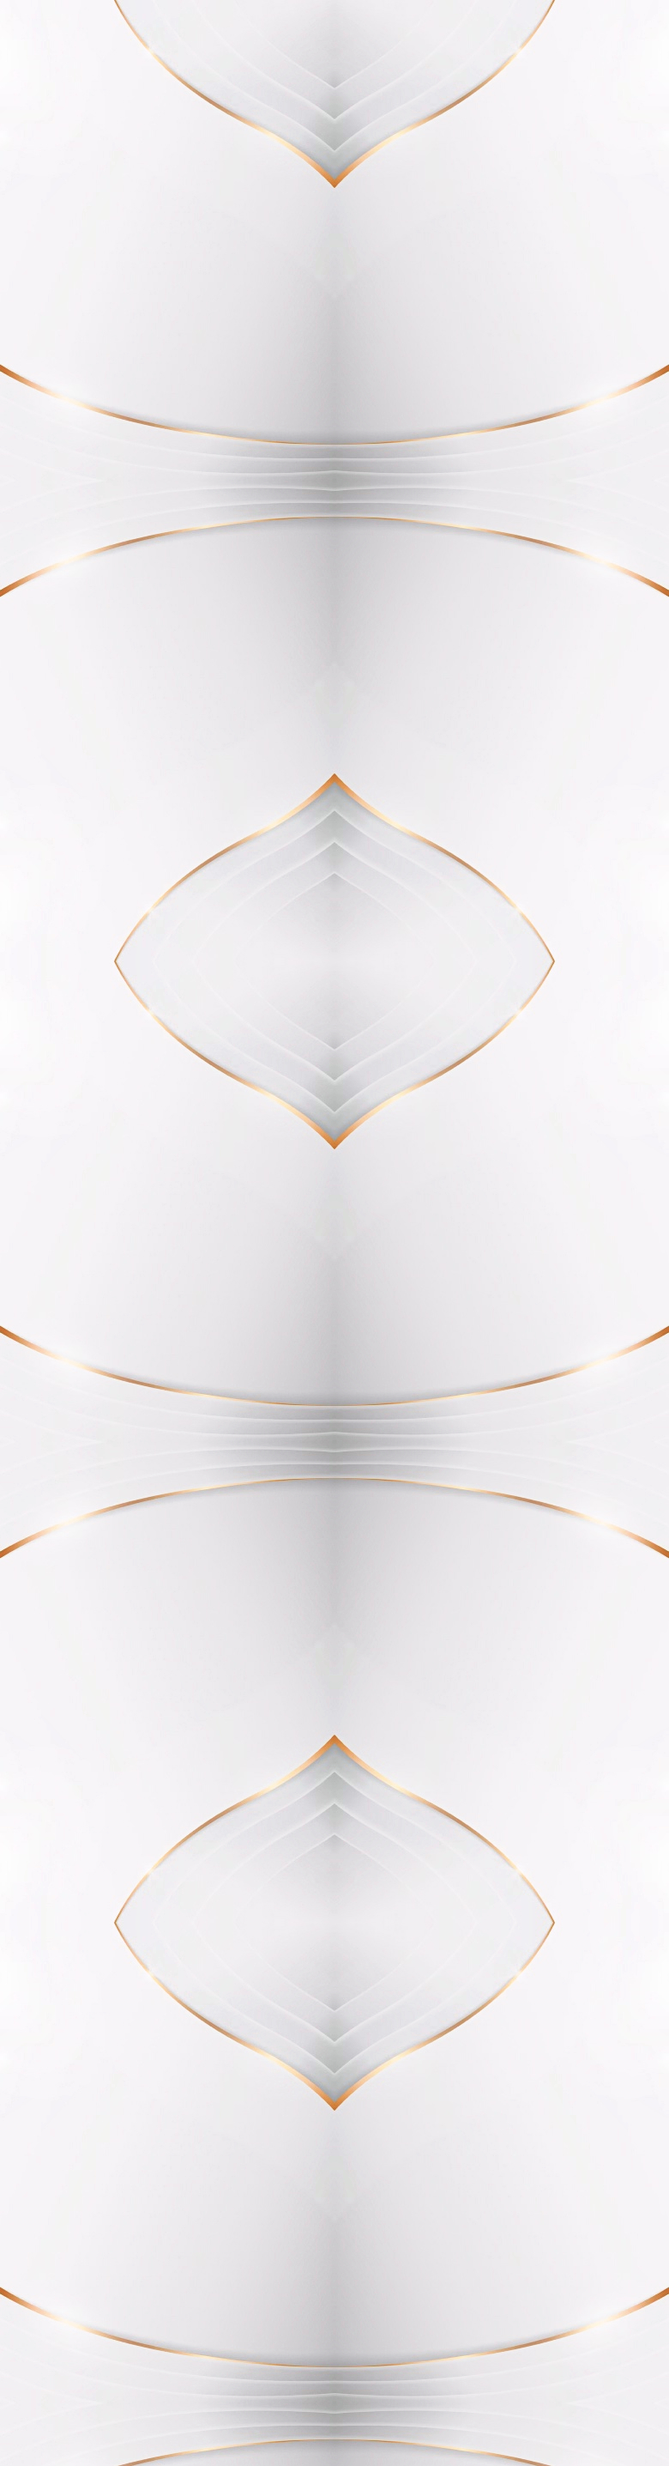
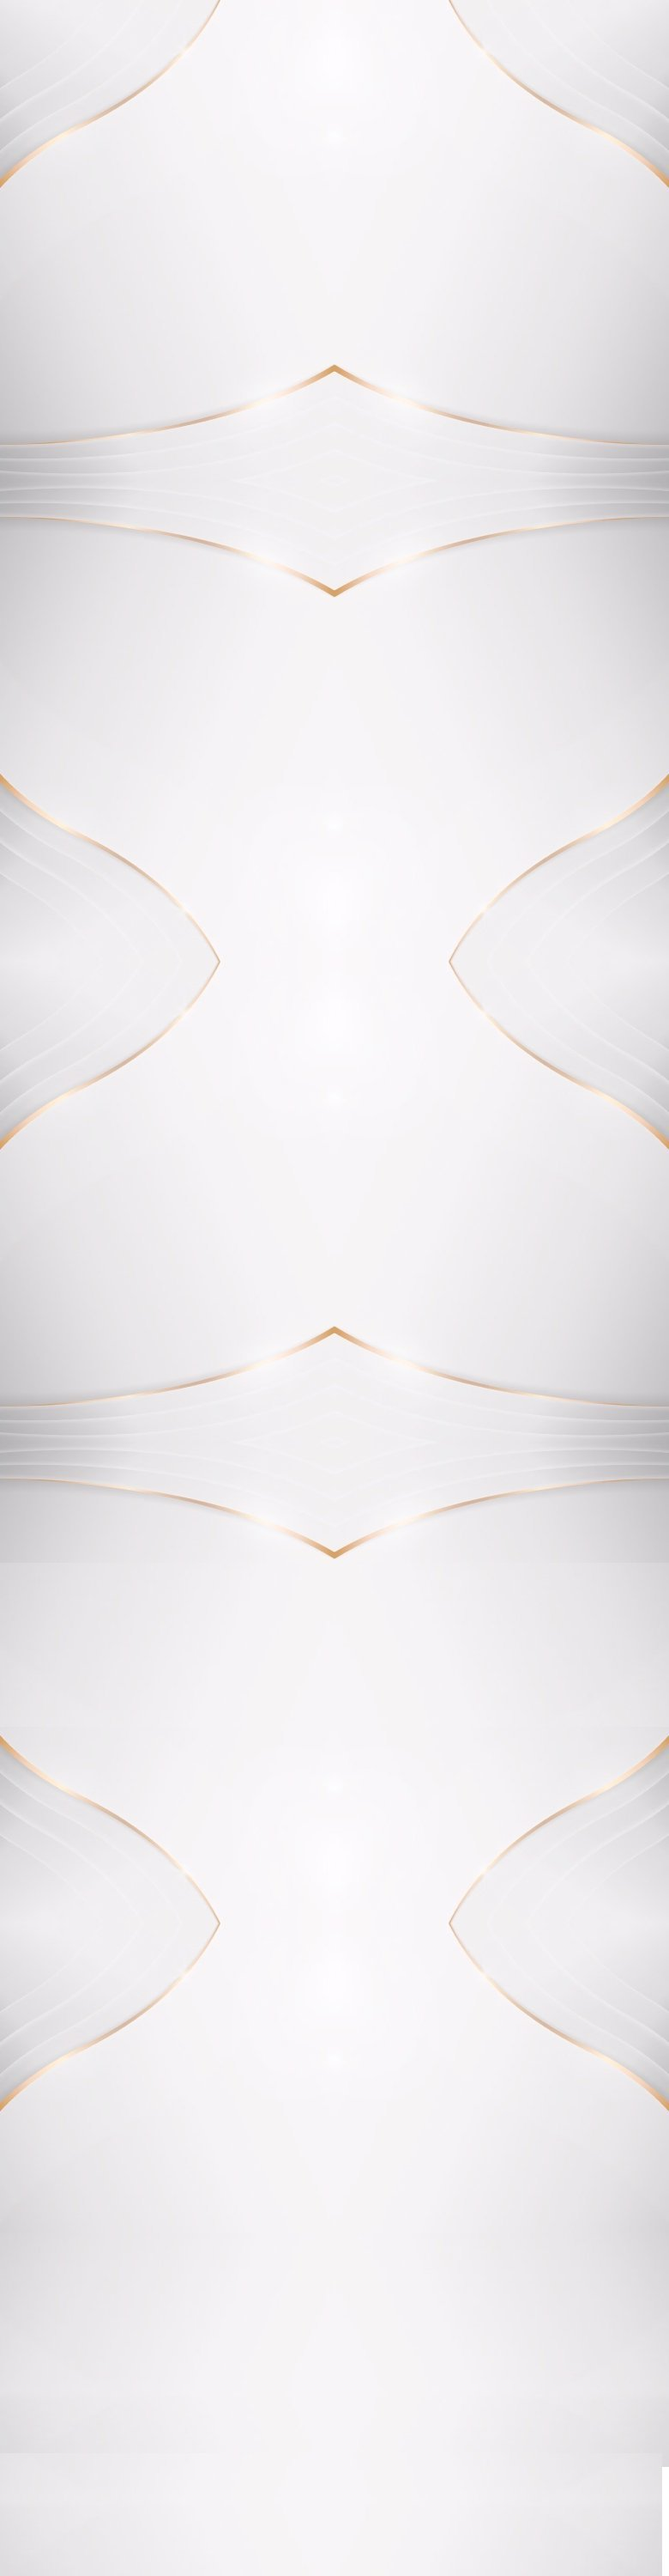
changed background

diff --git a/src/styles/blocks/page.scss b/src/styles/blocks/page.scss
@@ -6,8 +6,7 @@
 
   &__body {
     background-image: url("../images/background-mobile.jpg");
-    background-attachment: fixed;
-    background-position: -390px 209vh;
+    background-position: 0px 96vh;
 
     @include onNotebook {
       background-image: url("../images/background-desktop.jpg");
